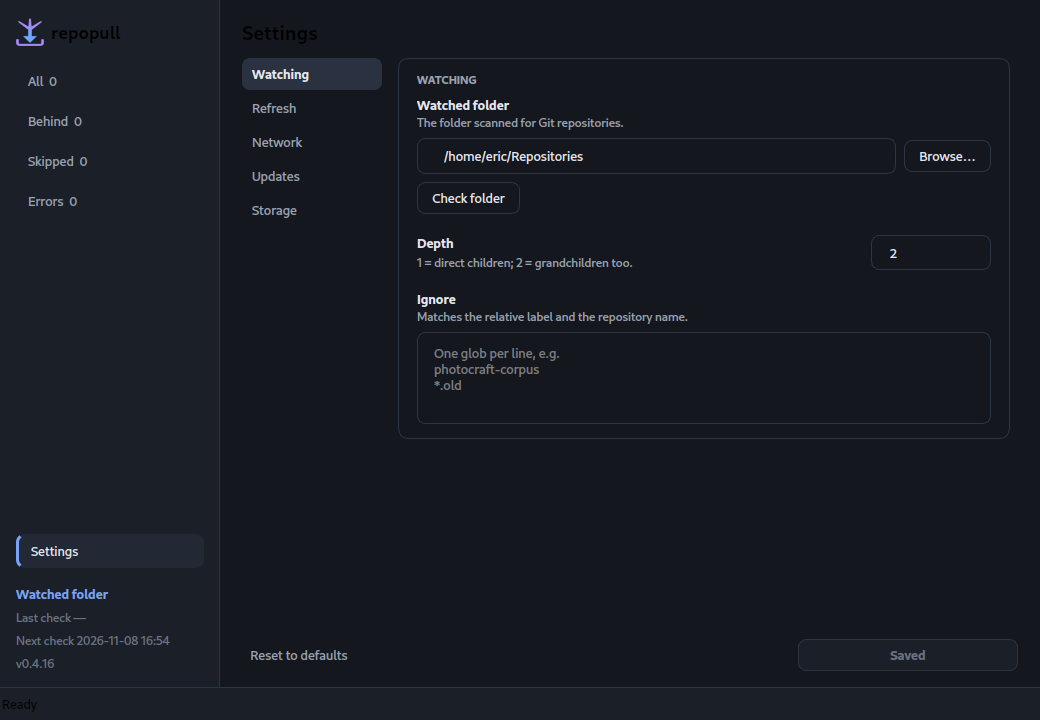
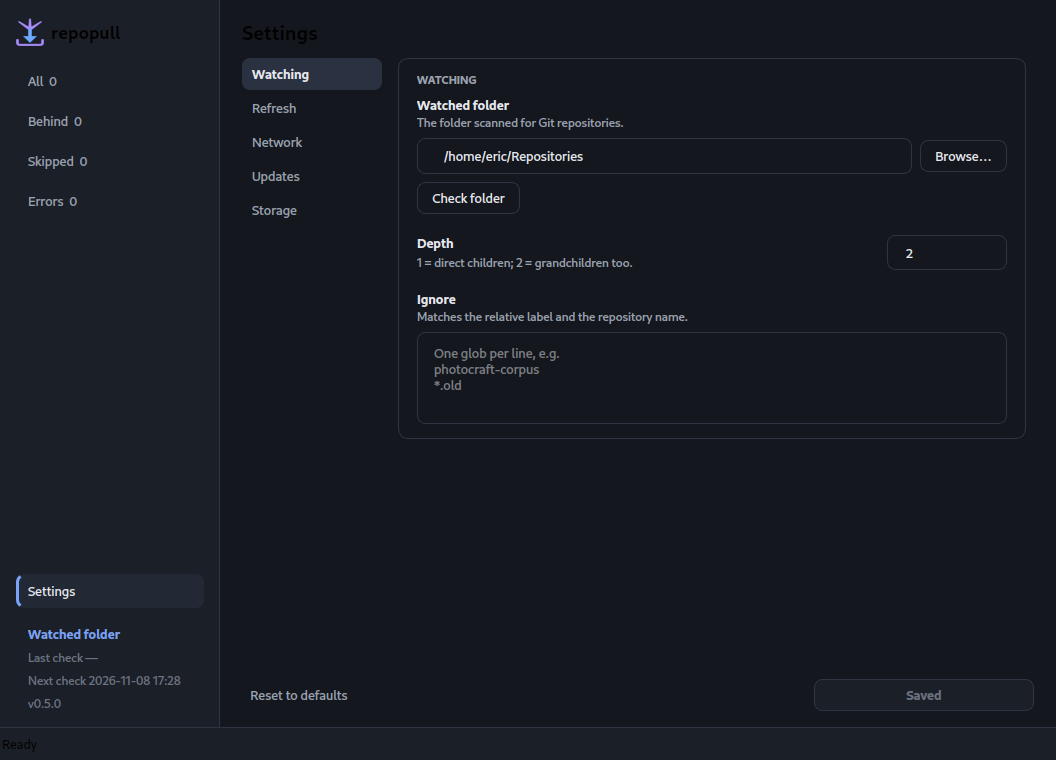
Release 0.5.1

diff --git a/src/repopull/gui/window.py b/src/repopull/gui/window.py
@@ -358,18 +358,25 @@ class MainWindow(QMainWindow):
 
         box.addSpacing(10)
 
+        meta = QWidget()
+        meta_layout = QVBoxLayout(meta)
+        # Match QPushButton#Nav's horizontal padding so every sidebar text
+        # starts on the same column (the pill backgrounds keep their inset).
+        meta_layout.setContentsMargins(12, 0, 0, 0)
+        meta_layout.setSpacing(6)
+
         self.watched_link = QPushButton("Watched folder")
         self.watched_link.setObjectName("Link")
         self.watched_link.setCursor(Qt.CursorShape.PointingHandCursor)
         self.watched_link.clicked.connect(self._open_watched_settings)
-        box.addWidget(self.watched_link)
+        meta_layout.addWidget(self.watched_link)
 
         self.last_label = QLabel("Last check —")
         self.last_label.setObjectName("Faint")
         self.last_label.setToolTip(
             "The last completed run; a sync also counts as a check."
         )
-        box.addWidget(self.last_label)
+        meta_layout.addWidget(self.last_label)
 
         self.next_label = QPushButton("Next check —")
         self.next_label.setObjectName("FaintLink")
@@ -378,11 +385,13 @@ class MainWindow(QMainWindow):
             "Open the Refresh settings to change automatic checks."
         )
         self.next_label.clicked.connect(self._open_refresh_settings)
-        box.addWidget(self.next_label)
+        meta_layout.addWidget(self.next_label)
 
         version = QLabel(f"v{__version__}")
         version.setObjectName("Faint")
-        box.addWidget(version)
+        meta_layout.addWidget(version)
+
+        box.addWidget(meta)
 
         self.nav_buttons["all"].setChecked(True)
         return sidebar
@@ -1115,7 +1124,7 @@ class MainWindow(QMainWindow):
         self.filter = key
         self.nav_buttons[key].setChecked(True)
         self.stack.setCurrentWidget(self.library_page)
-        self._render_library()
+        self._render_library(preserve_scroll=False)
         self._save_ui_state()
 
     def _settings_section_toggled(self, index: int, checked: bool) -> None:
@@ -1158,7 +1167,7 @@ class MainWindow(QMainWindow):
 
     def _on_search(self, text: str) -> None:
         self.search = text.strip()
-        self._render_library()
+        self._render_library(preserve_scroll=False)
 
     # --------------------------------------------------------------- rendering
 
@@ -1385,9 +1394,17 @@ class MainWindow(QMainWindow):
         """Number of rows the current filter and search would show."""
         return len(self._visible_rows())
 
-    def _render_library(self) -> None:
+    def _render_library(self, *, preserve_scroll: bool = True) -> None:
+        """Rebuild the list, keeping the scroll position for data updates.
+
+        Filter and search changes pass `preserve_scroll=False` because a new
+        view should start at the top. A run finishing or a hold changing while
+        the detail page is open must not destroy the position the user had.
+        """
         self._update_nav_counts()
         visible = self._visible_rows()
+        bar = self.list.verticalScrollBar()
+        previous_scroll = bar.value() if preserve_scroll else 0
 
         self.list.clear()
         self.row_widgets = {}
@@ -1417,6 +1434,10 @@ class MainWindow(QMainWindow):
             )
 
         self._update_banner()
+        if preserve_scroll:
+            bar.setValue(min(previous_scroll, bar.maximum()))
+        else:
+            bar.setValue(0)
 
     def _update_nav_counts(self) -> None:
         report_rows = self._report_rows()

diff --git a/tests/test_gui.py b/tests/test_gui.py
@@ -63,6 +63,12 @@ if HAVE_PYSIDE:
                 (root / name / ".git").mkdir(parents=True)
             return root
 
+        def _many(self, base: Path, count: int = 40) -> Path:
+            root = base / "repos"
+            for index in range(count):
+                (root / f"repo-{index:02d}" / ".git").mkdir(parents=True)
+            return root
+
         def test_unconfigured_root_shows_setup_message(self) -> None:
             with tempfile.TemporaryDirectory() as tmp:
                 base = Path(tmp)
@@ -600,6 +606,50 @@ if HAVE_PYSIDE:
                 base = Path(tmp)
                 window = MainWindow(self._config(base, self._tree(base)))
                 self.assertEqual(window.visible_row_count(), 3)
+                window.close()
+
+        def test_library_scroll_survives_rebuild_and_back(self) -> None:
+            with tempfile.TemporaryDirectory() as tmp:
+                base = Path(tmp)
+                window = MainWindow(self._config(base, self._many(base)))
+                window.resize(1040, 720)
+                window.show()
+                self.app.processEvents()
+                bar = window.list.verticalScrollBar()
+                self.assertGreater(bar.maximum(), 500)
+
+                bar.setValue(500)
+                window._render_library()
+                self.assertEqual(bar.value(), 500)
+
+                window._open_detail("repo-20")
+                window._render_library()
+                window._back_to_library()
+                self.app.processEvents()
+                self.assertEqual(bar.value(), 500)
+
+                window.refs = window.refs[:3]
+                window._render_library()
+                self.assertLessEqual(bar.value(), bar.maximum())
+                window.close()
+
+        def test_filter_and_search_reset_library_scroll(self) -> None:
+            with tempfile.TemporaryDirectory() as tmp:
+                base = Path(tmp)
+                window = MainWindow(self._config(base, self._many(base)))
+                window.resize(1040, 720)
+                window.show()
+                self.app.processEvents()
+                bar = window.list.verticalScrollBar()
+
+                bar.setValue(500)
+                window._set_filter("behind")
+                self.assertEqual(bar.value(), 0)
+
+                window._set_filter("all")
+                bar.setValue(500)
+                window._on_search("repo-2")
+                self.assertEqual(bar.value(), 0)
                 window.close()
 
         def test_report_is_loaded_and_filtered(self) -> None:

diff --git a/src/repopull/gui/theme.py b/src/repopull/gui/theme.py
@@ -217,6 +217,9 @@ def stylesheet(palette: Palette = PALETTE) -> str:
         background: {p.surface2};
         color: {p.text};
         border-left: 3px solid {p.accent};
+        /* The accent bar occupies 3 px, so reclaim it from the left padding
+           to keep the text on the same column as unchecked tabs. */
+        padding-left: 9px;
     }}
     QLineEdit {{
         background: {p.surface2};

diff --git a/src/repopull/__init__.py b/src/repopull/__init__.py
@@ -1,3 +1,3 @@
 """repopull — keep local mirrors of watched remote repositories current."""
 
-__version__ = "0.5.0"
+__version__ = "0.5.1"

diff --git a/README.md b/README.md
@@ -12,12 +12,13 @@ The app watches a folder of remote third-party repositories. Then it discovers t
 
 ## Status
 
-**Current release: 0.5.0.** Tests and mypy pass; the latest AppImage was built
-from the 0.5.0 tree. No release blockers. The historical
+**Current release: 0.5.1.** Tests and mypy pass; the latest AppImage was built
+from the 0.5.1 tree. No release blockers. The historical
 [test audit](docs/test-falsifiability.md) covers 0.2.3; a 2026-11-07 re-audit
 covers the 0.4.13 tree at 224 tests; 0.4.14 added one GUI padding test,
-0.4.15 added 12 root-state tests, 0.4.16 added 12, and 0.5.0 adds 15 for
-per-repository holds, row labels, Open folder, and Next check (264 current).
+0.4.15 added 12 root-state tests, 0.4.16 added 12, 0.5.0 added 15 for
+per-repository holds, row labels, Open folder, and Next check (264 at that
+release), and 0.5.1 adds 2 scroll-position tests (266 current).
 The 16 px icon keeps its branches at the cost of softness (see
 [branding](docs/branding.md)).
 
@@ -144,14 +145,14 @@ importable, otherwise it lets `uv` provide it for that run.
 
 ```bash
 make appimage
-./dist/repopull-0.5.0-x86_64.AppImage
+./dist/repopull-0.5.1-x86_64.AppImage
 ```
 
 The image bundles Python 3.13, PySide6 and repopull. Run the CLI from it with
 `--cli`:
 
 ```bash
-./dist/repopull-0.5.0-x86_64.AppImage --cli status
+./dist/repopull-0.5.1-x86_64.AppImage --cli status
 ```
 
 It keeps `config.toml` and logs in `~/.config/repopull` (or `$REPOPULL_HOME`).
@@ -252,7 +253,7 @@ make test        # unit and integration tests, offline, uses temp repos
 make typecheck   # mypy --strict
 make check       # both
 make gui         # launch the optional PySide6 interface
-make appimage    # build dist/repopull-0.5.0-x86_64.AppImage
+make appimage    # build dist/repopull-0.5.1-x86_64.AppImage
 make bump        # increment the patch version
 make release     # check, bump the patch, build the AppImage
 ```

diff --git a/docs/gui.md b/docs/gui.md
@@ -41,8 +41,9 @@ restored; a detail page is restored only if that repository is still present.
 - **Sidebar**: All / Behind / Skipped / Errors with live counts, Settings, a
   **Watched folder** link that opens Settings and focuses the folder field,
   **Last check** and **Next check** lines, the running version, and the mark
-  beside the wordmark. The full path lives in Settings and in the link's
-  tooltip. **Last check** is the last completed run (a sync also counts);
+  beside the wordmark. All of this text shares one column with the navigation
+  labels; the pills keep their inset. The full path lives in Settings and in the
+  link's tooltip. **Last check** is the last completed run (a sync also counts);
   **Next check** is clickable and opens the Refresh settings section;
   it shows `off`, `paused`, `when visible`, `after resume`, `after this run`,
   `none included`, or the scheduled wall-clock time. It is an estimate and does
@@ -54,7 +55,8 @@ restored; a detail page is restored only if that repository is still present.
   (`No checks`, `No sync`, `No checks/sync`); numbers live in the subtitle so
   long counts cannot overflow the chip. Behind counts use the chip's orange.
   **Rows update as each repository is checked**, not only when the whole sweep
-  finishes. Search filters by label.
+  finishes. Search filters by label. Returning from a detail page keeps the
+  list's scroll position; changing the filter or search starts at the top.
 
   After a sync that moved commits, the chip is `Up to date` and the subtitle
   reads `main · 17 commits pulled at last sync`. That is history, not a claim

diff --git a/docs/packaging.md b/docs/packaging.md
@@ -1,6 +1,6 @@
 # Packaging as an AppImage
 
-`make appimage` builds `dist/repopull-0.5.0-x86_64.AppImage`: a single file with
+`make appimage` builds `dist/repopull-0.5.1-x86_64.AppImage`: a single file with
 a bundled Python 3.13, PySide6 and `repopull`. It follows the same approach as
 AppGlider — `python-appimage` stages the AppDir, then a pinned `appimagetool`
 packs it.
@@ -25,16 +25,16 @@ stages the AppDir, replaces `AppRun`, packs the image, and runs two smoke tests
 (GUI offscreen and `--cli version`). Output:
 
 ```
-dist/repopull-0.5.0-x86_64.AppImage
+dist/repopull-0.5.1-x86_64.AppImage
 dist/SHA256SUMS.txt
 ```
 
 ## Run
 
 ```bash
-./dist/repopull-0.5.0-x86_64.AppImage                  # GUI
-./dist/repopull-0.5.0-x86_64.AppImage --cli status
-./dist/repopull-0.5.0-x86_64.AppImage --cli sync --only 'craft-*'
+./dist/repopull-0.5.1-x86_64.AppImage                  # GUI
+./dist/repopull-0.5.1-x86_64.AppImage --cli status
+./dist/repopull-0.5.1-x86_64.AppImage --cli sync --only 'craft-*'
 ```
 
 If FUSE is unavailable, add `--appimage-extract-and-run`.

diff --git a/docs/test-falsifiability.md b/docs/test-falsifiability.md
@@ -167,8 +167,9 @@ QT_QPA_PLATFORM=offscreen PYTHONPATH=src:tests \
 
 **Suite:** 224 tests at audit time; all running, no skips. The 0.4.14 padding
 test brought the suite to 225; 0.4.15 added 12 root-state tests for 237 at that
-release; 0.4.16 added 12 for 249, and 0.5.0 adds 15 GUI/config/CLI tests for
-per-repository holds, row labels, Open folder, and Next check, for 264. The conditional parent-death test
+release; 0.4.16 added 12 for 249, 0.5.0 added 15 GUI/config/CLI tests for
+per-repository holds, row labels, Open folder, and Next check, for 264, and
+0.5.1 adds 2 scroll-position tests for 266. The conditional parent-death test
 ran because `setpriv` is present. No test lacked an assertion, no assertion was
 swallowed by `try/except`, and no assertion was hidden inside a loop over a
 possibly-empty collection.

diff --git a/CHANGELOG.md b/CHANGELOG.md
@@ -1,5 +1,16 @@
 # Changelog
 
+## 0.5.1 — 2026-11-08
+
+- Returning from a repository's detail page keeps the library's scroll
+  position. A status run finishing or a hold changing while the detail page is
+  open no longer jumps the list back to the top. Changing the filter or the
+  search still starts at the top.
+- Sidebar text now shares one column: Watched folder, Last check, Next check,
+  and the version align with All / Behind / Skipped / Errors and Settings. The
+  navigation pills keep their 12 px inset, and the checked tab's accent bar no
+  longer shifts its label by 3 px.
+
 ## 0.5.0 — 2026-11-08
 
 - The repository page has **Open folder**, which opens the local clone in the
